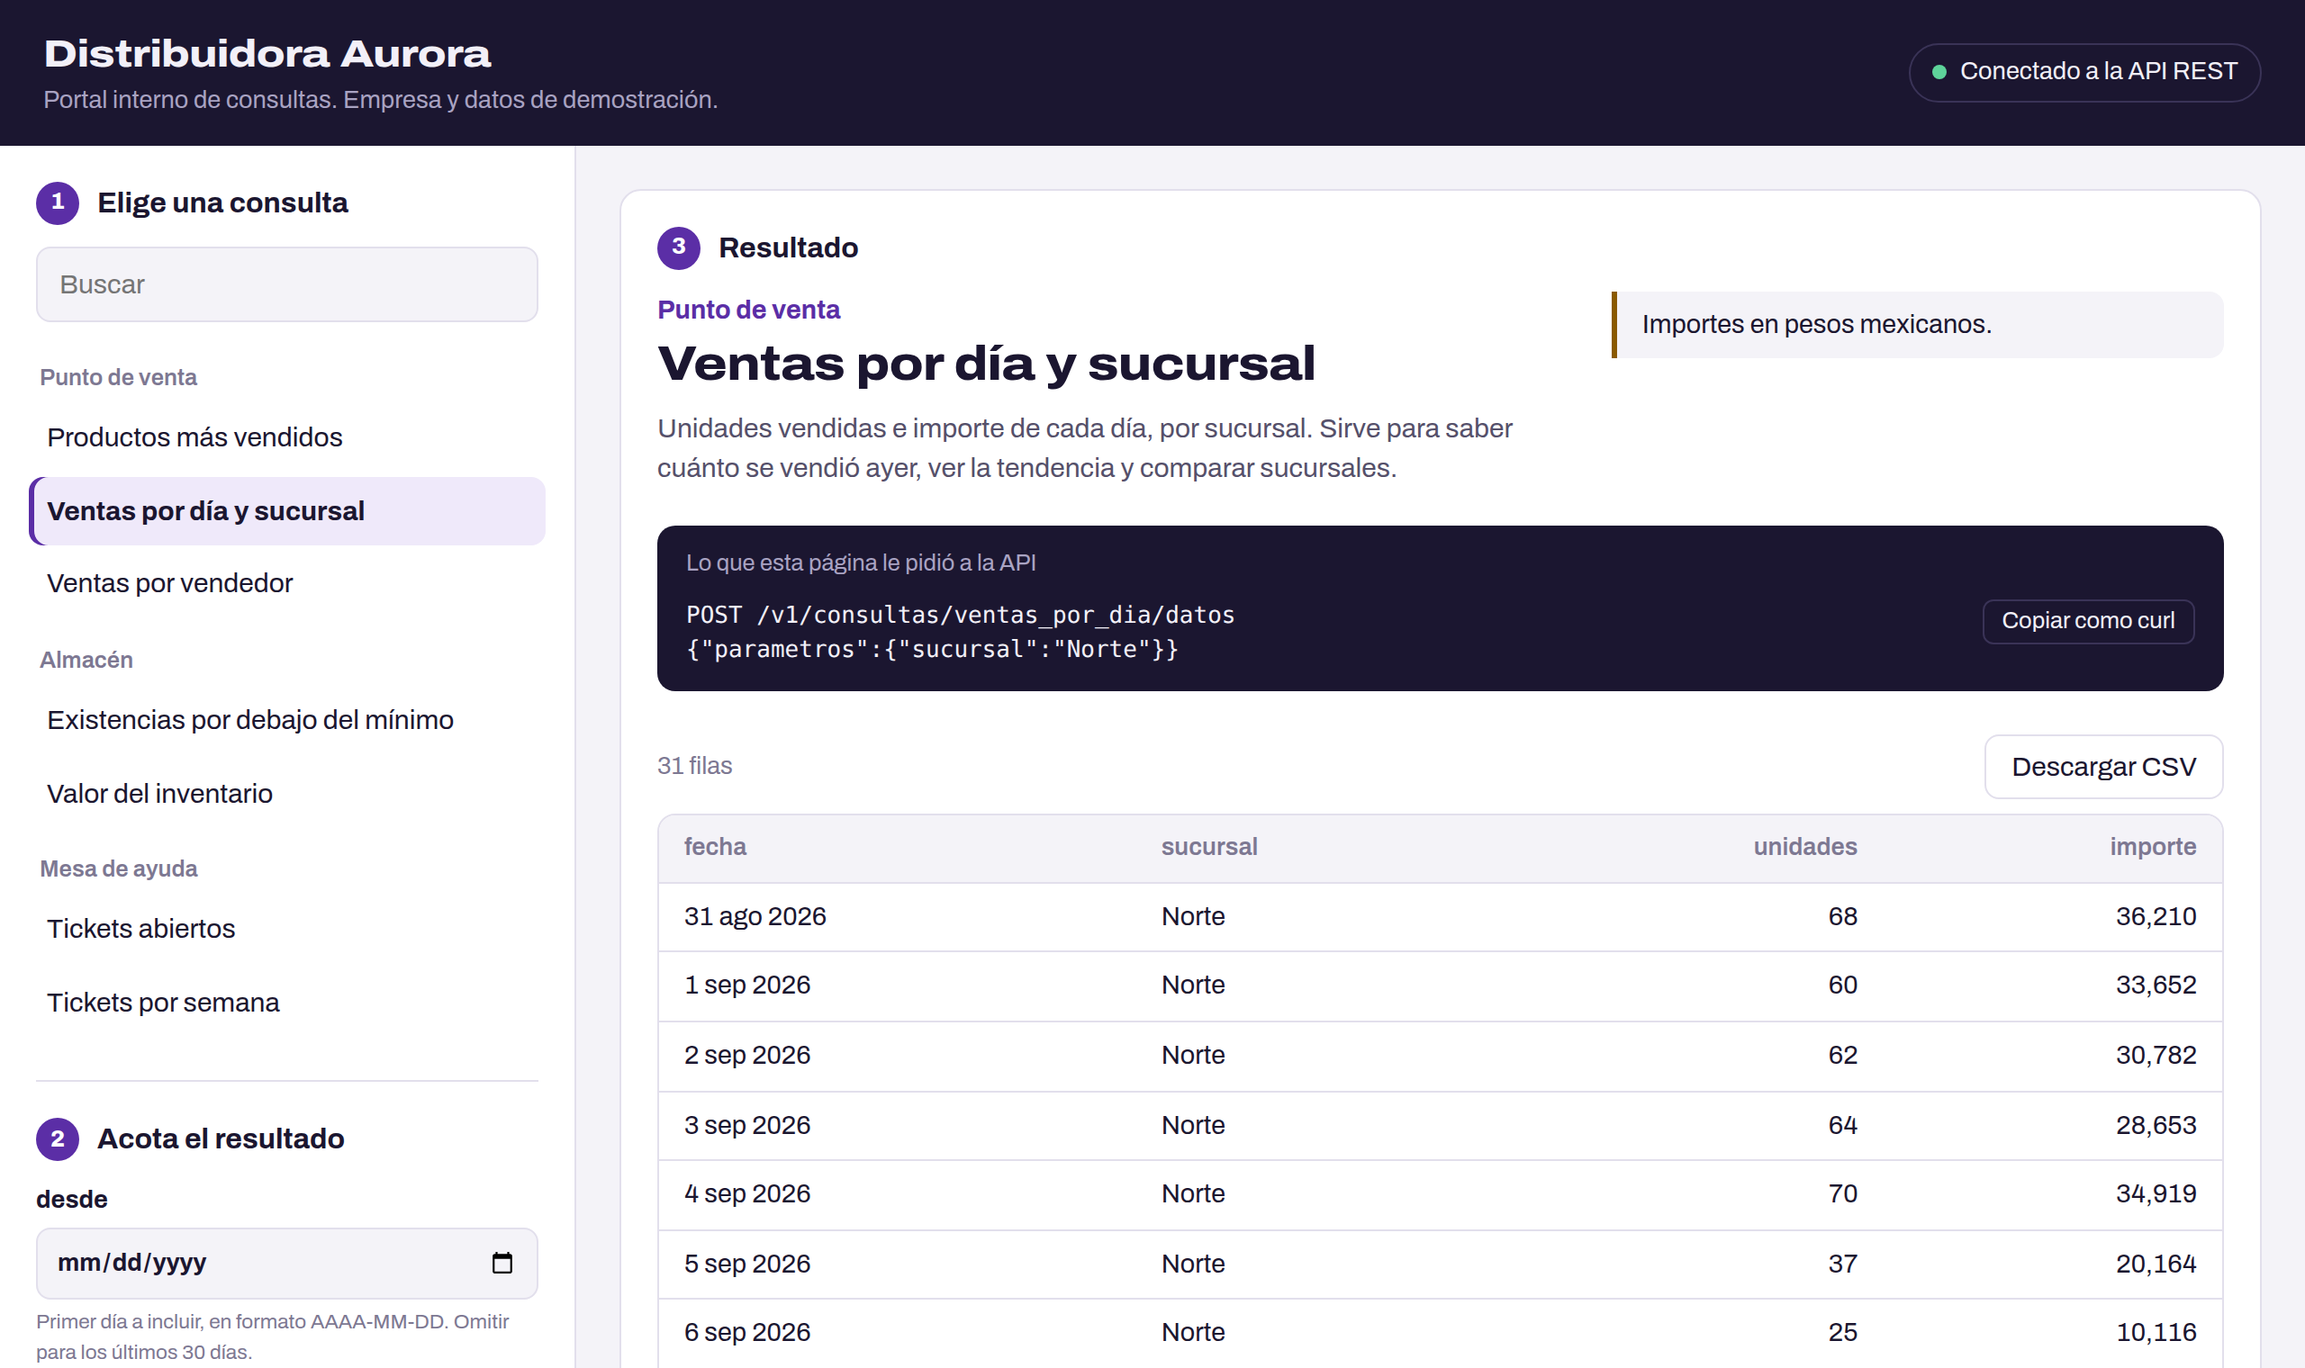
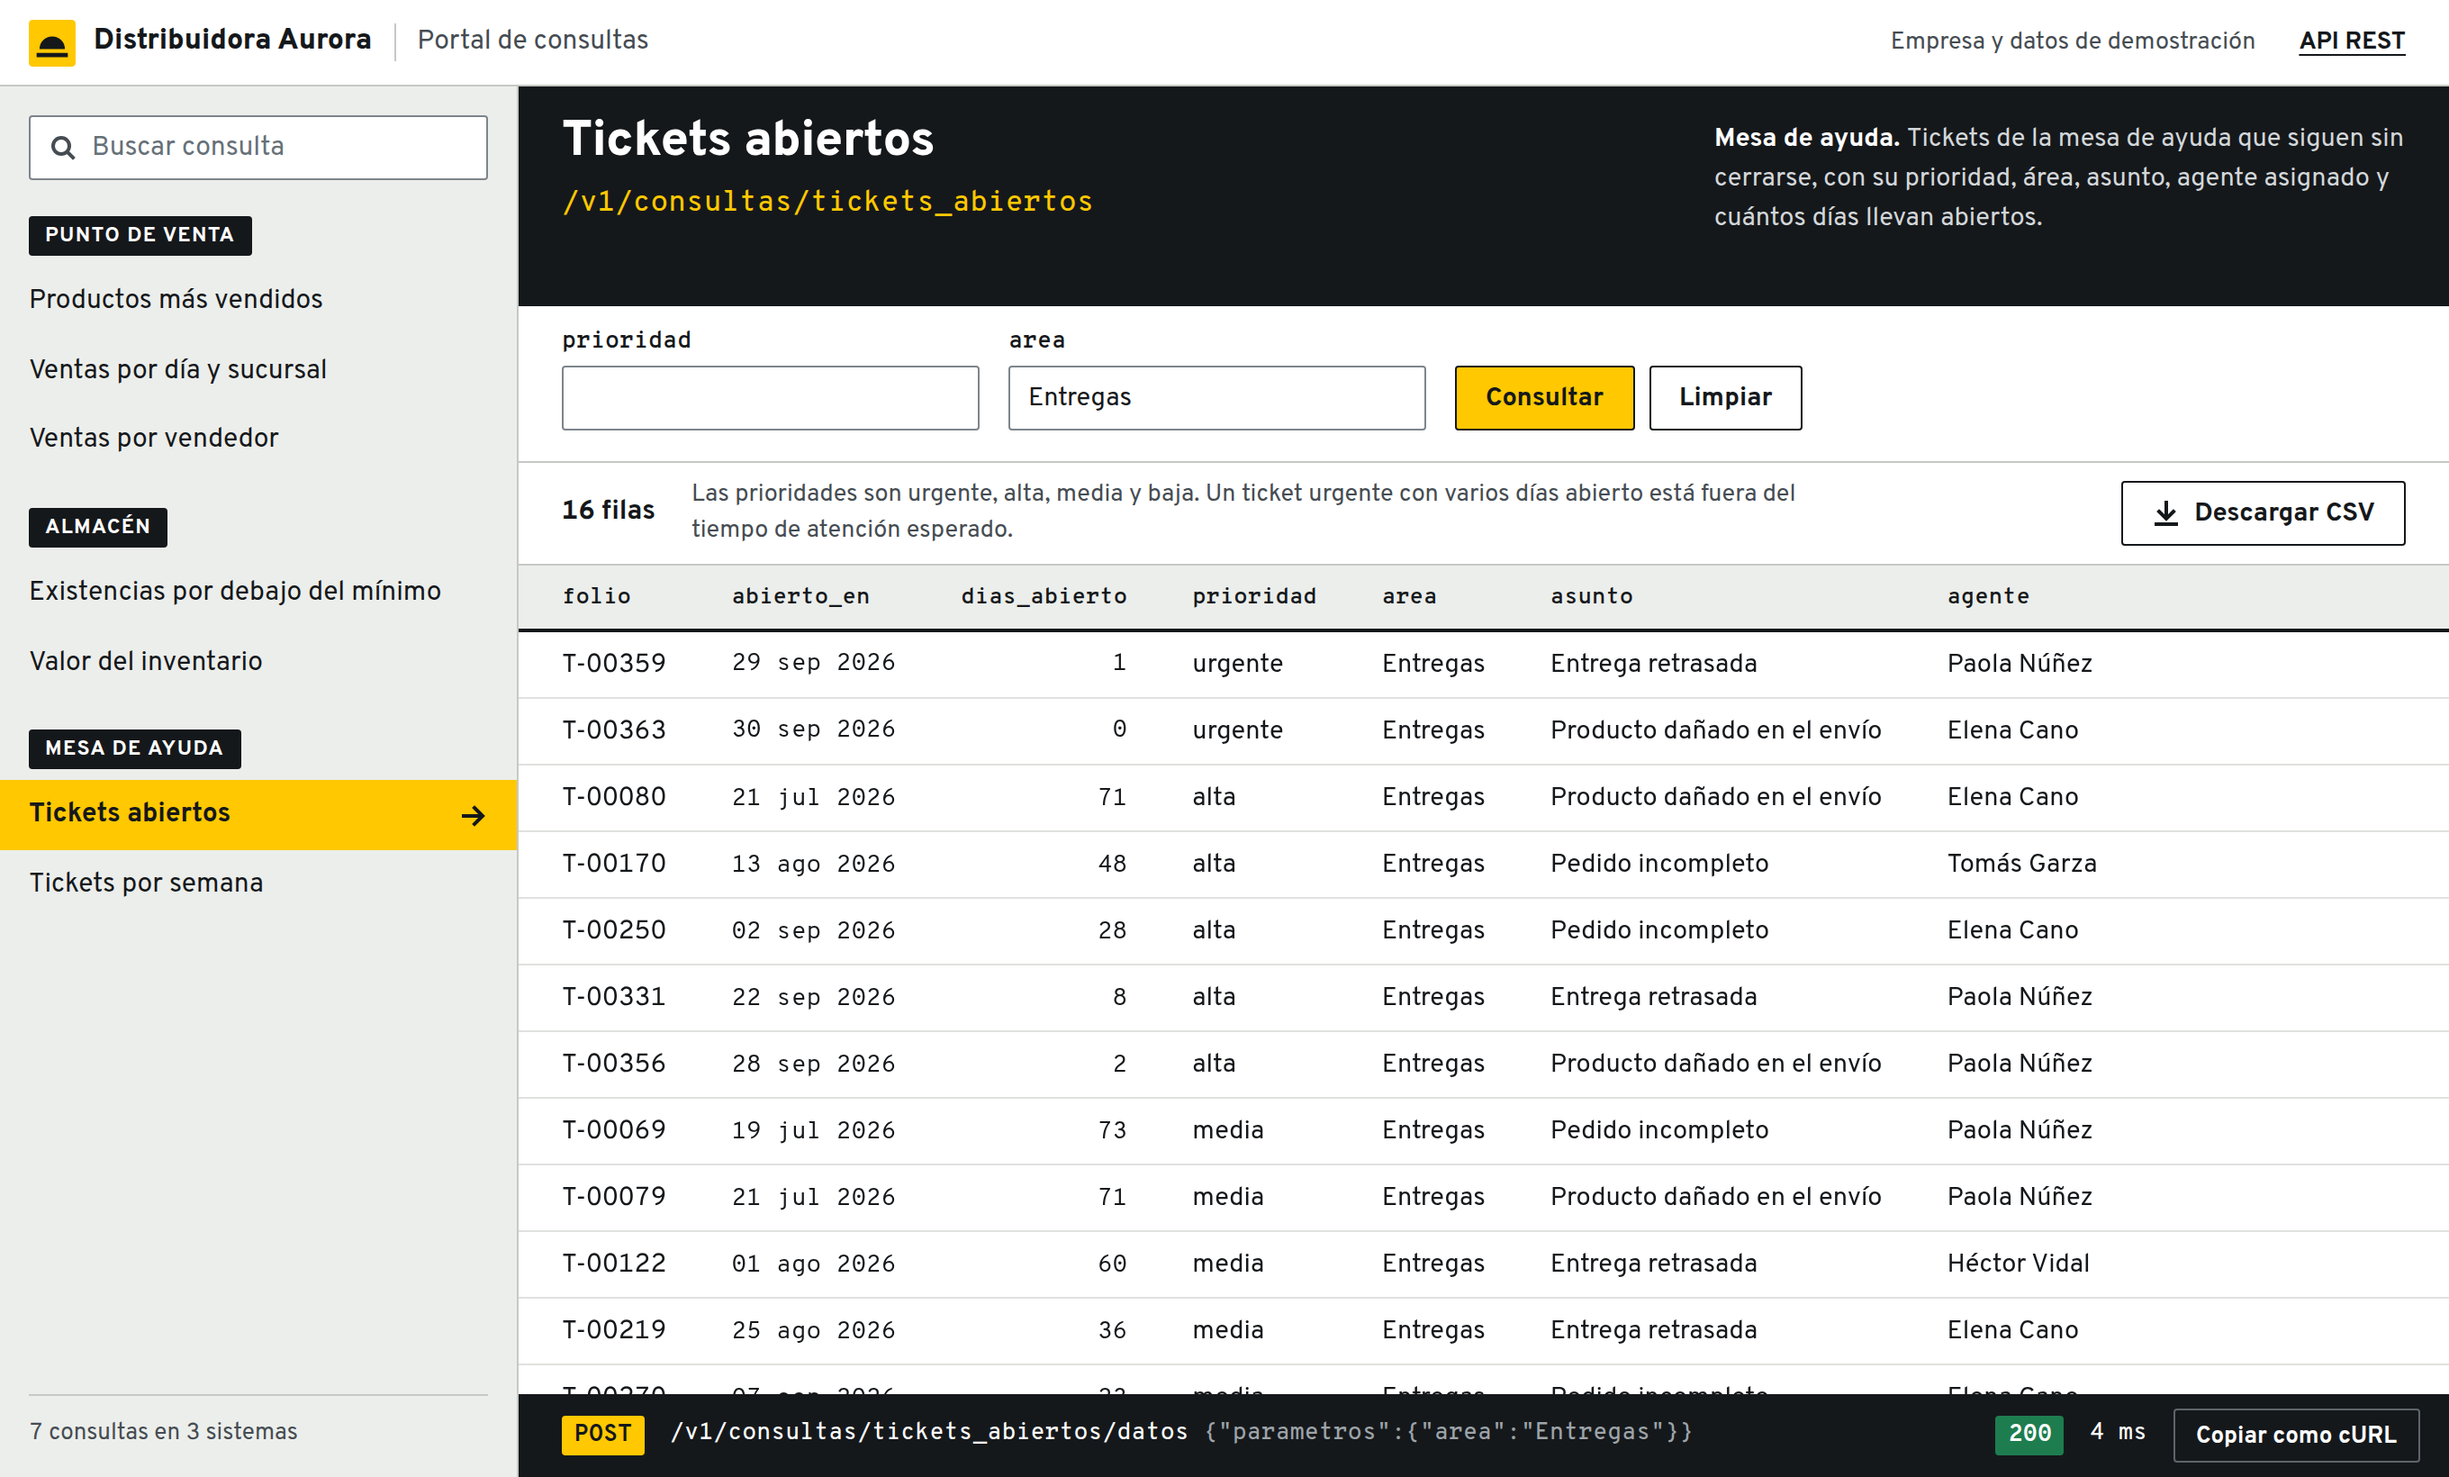
docs(readme): captura del portal rediseñado, carpeta de tipografias en la estructura y su licencia ofl

diff --git a/README.md b/README.md
@@ -21,7 +21,7 @@ esa misma API se convierte en un servidor [MCP](https://modelcontextprotocol.io)
 cualquier cliente compatible puede usar. El servicio solo entrega filas: las gráficas, los cruces y
 los reportes los arma el asistente.
 
-![El portal de consultas mostrando las ventas por día de una sucursal](docs/portal.png)
+![El portal de consultas de Distribuidora Aurora con los tickets abiertos del área de Entregas](docs/portal.png)
 
 ## Por qué usarlo
 
@@ -272,6 +272,7 @@ app/main.py       el bloque que la vuelve servidor MCP
 catalogo/         un YAML por consulta, en una carpeta por sistema
 db/               las tres bases de ejemplo
 web/index.html    el portal, un HTML estático que solo usa la API
+web/fonts/        la tipografía del portal, servida desde el propio repositorio
 tests/            pruebas que no necesitan base de datos
 ```
 
@@ -285,3 +286,6 @@ docker compose exec api python -m pytest -p no:cacheprovider
 
 Nació como la demo de la charla «MCP: deja de reinventar la rueda» para MexAI Community. Se publica
 bajo licencia [MIT](LICENSE): úsalo, modifícalo y llévalo a tu empresa.
+
+El portal usa las tipografías Overpass y Overpass Mono, incluidas en [`web/fonts/`](web/fonts/) bajo la
+licencia SIL Open Font License 1.1.
